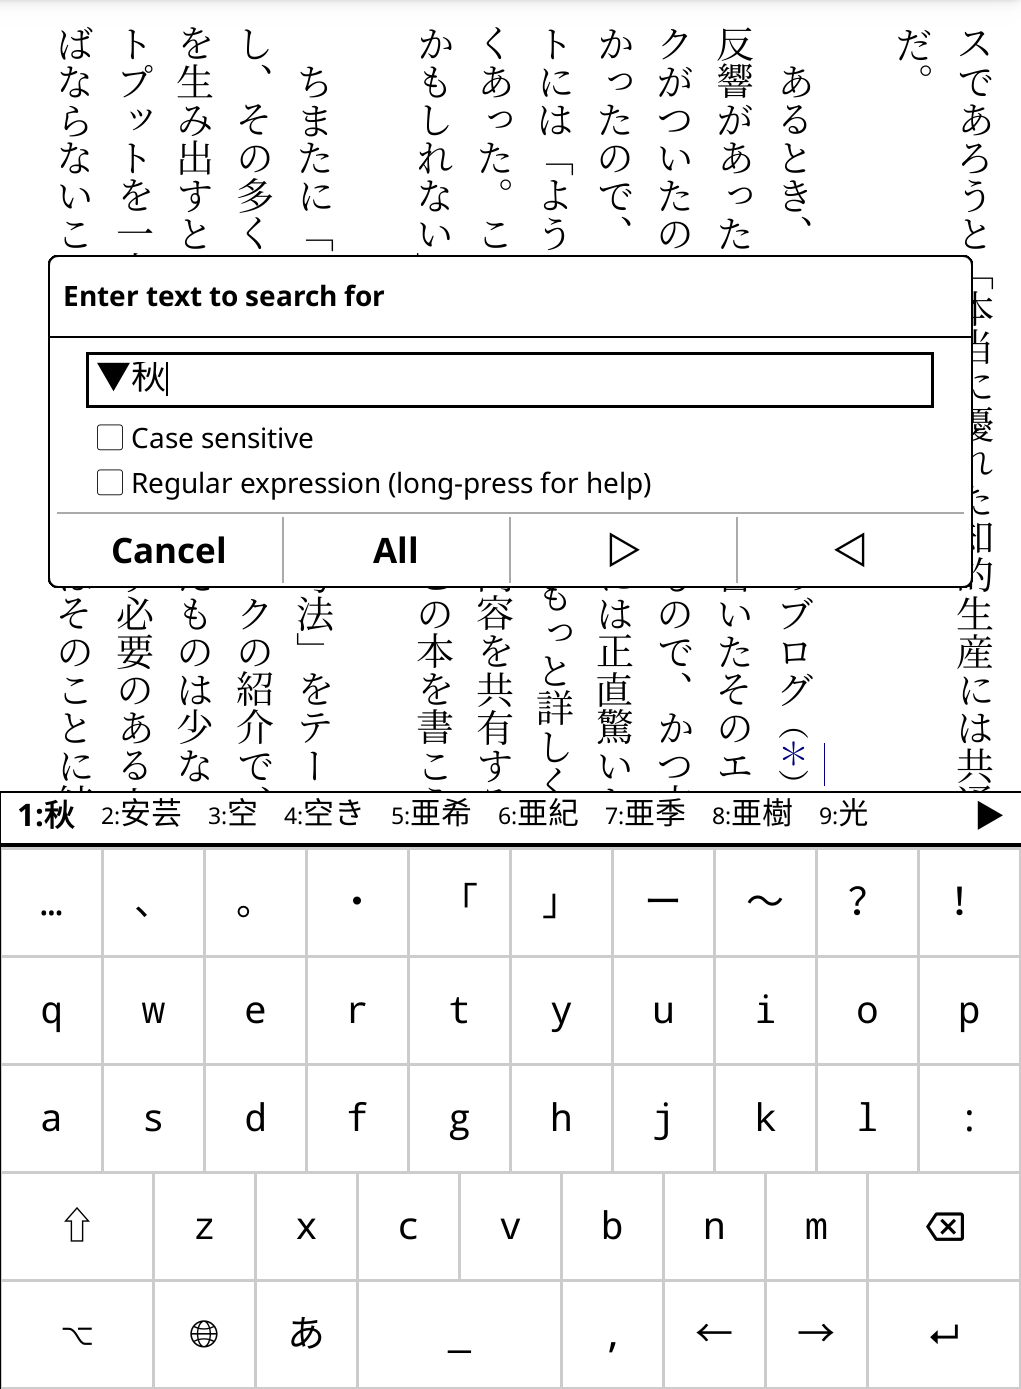
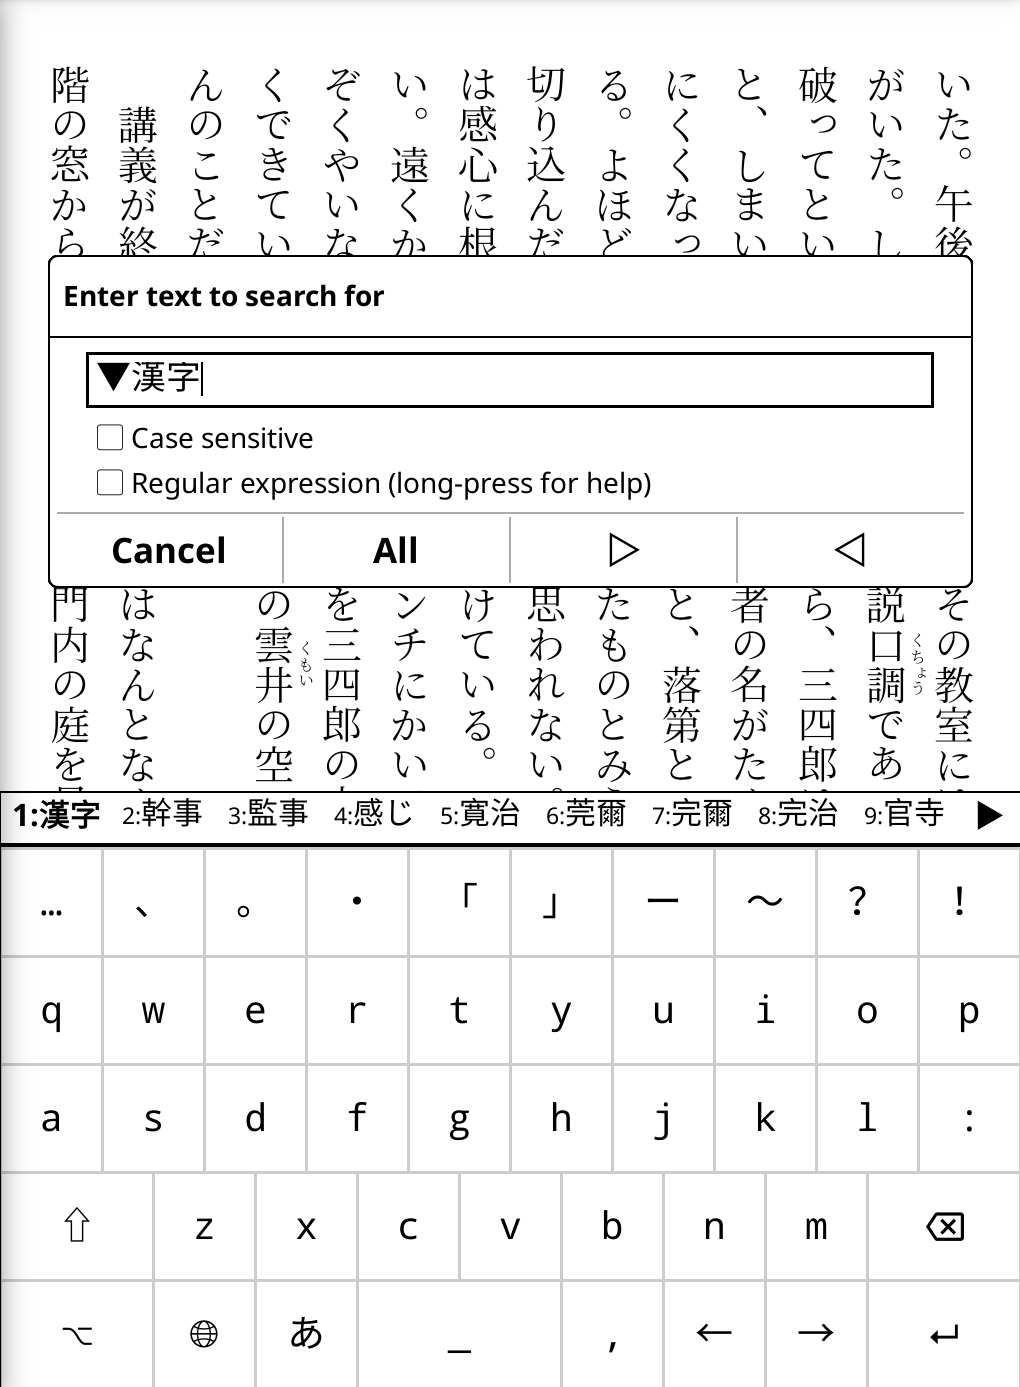
README: replace hero screenshot with self-referential 漢字 example
The new shot shows the canonical "kanji" → 漢字 conversion: typing
Kanji yields ▼漢字 in the input field and a candidate bar full of
plausible homophones (1:漢字 2:幹事 3:監事 4:感じ 5:寛治 6:莞爾
7:完璧 8:完治 9:官吏). This communicates the value of SKK at a glance
— "the right one of several real words sharing the same reading" —
which the previous 秋 single-character example didn't carry, since its
alternates were obscure compounds.

diff --git a/README.md b/README.md
@@ -5,9 +5,9 @@ A [KOReader](https://github.com/koreader/koreader) plugin that brings
 input to every text field in KOReader.
 
 <p align="center">
-  <img src="docs/screenshot-conversion.png" alt="Kanji conversion in a KOReader search dialog: the input field shows ▼秋 (the current candidate) while a floating candidate bar above the SKK virtual keyboard lists 1:秋 2:安墨 3:空 4:空き 5:春希 6:寒希 7:憂秊 8:嫁秊 9:光 for tap-to-select." width="380">
+  <img src="docs/screenshot-conversion.png" alt="Kanji conversion in a KOReader search dialog: the input field shows ▼漢字 (the current candidate, meaning 'kanji' itself) while a floating candidate bar above the SKK virtual keyboard lists 1:漢字 2:幹事 3:監事 4:感じ 5:寛治 6:莞爾 7:完璧 8:完治 9:官吏 for tap-to-select." width="380">
   <br>
-  <em>Romaji <code>aki</code> → reading <code>あき</code> → kanji candidate <code>秋</code>, with the candidate bar offering alternatives.</em>
+  <em>Romaji <code>Kanji</code> → reading <code>かんじ</code> → kanji candidate <code>漢字</code>, with the candidate bar offering homophones.</em>
 </p>
 
 Works on **all KOReader platforms**:
